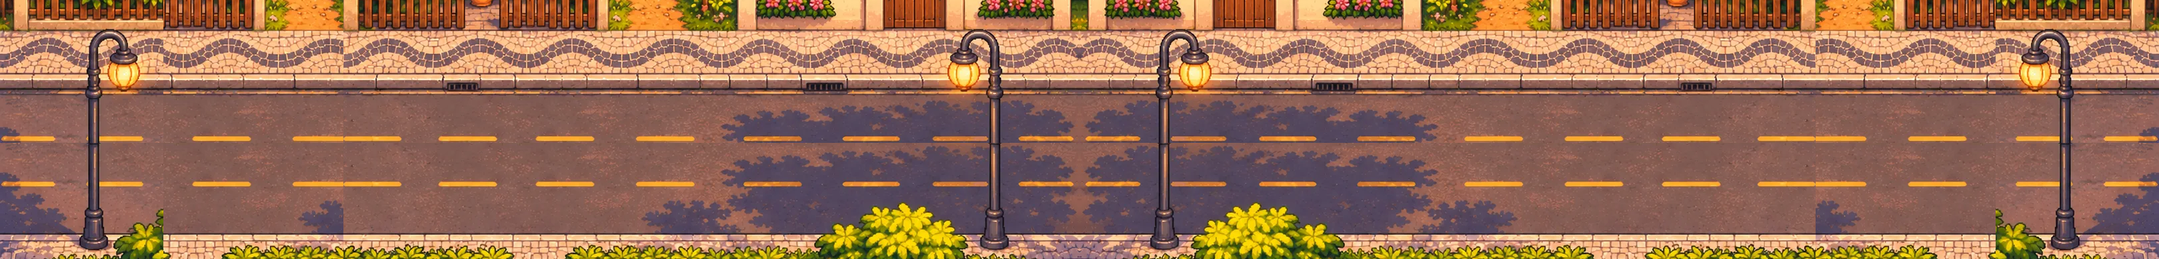
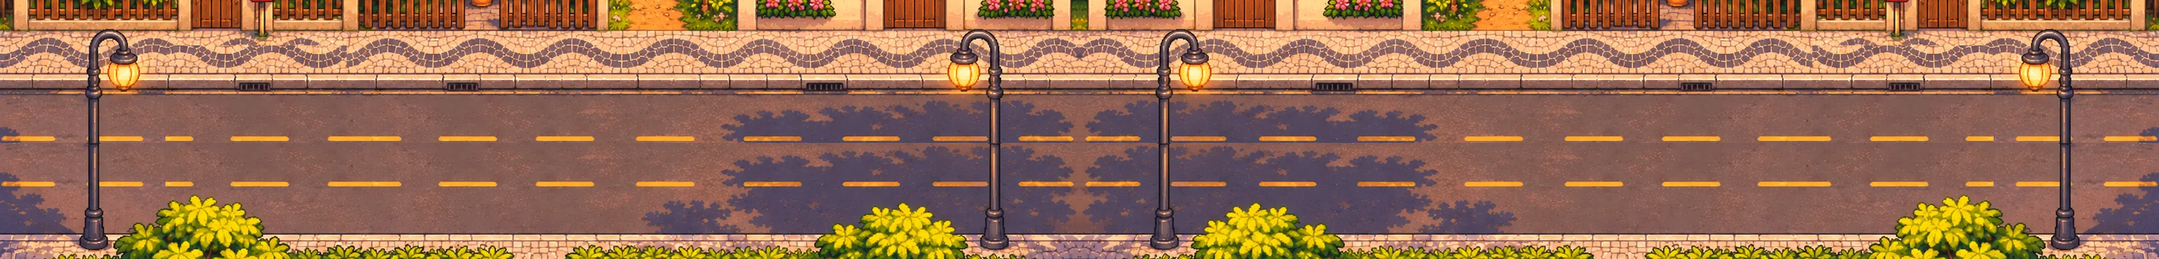
Carro vermelho da rua recortado no formato exato (sprite com profundidade pela base), pista do Uber emendada sem degrau na calçada, trânsito vindo de frente
Claude-Session: https://claude.ai/code/session_01PDyLU6Huw5amytFREh1vA2

diff --git a/src/config/assetManifest.ts b/src/config/assetManifest.ts
@@ -110,6 +110,7 @@ export const ASSETS: AssetEntry[] = [
   ...['colar', 'oculos', 'celular', 'guardanapo', 'flor'].map(
     (n, i): AssetEntry => ({ id: `ICO-${String(10 + i).padStart(3, '0')}`, key: `icon-${n}`, file: `assets/ui/icon-${n}.png`, kind: 'image' }),
   ),
+  { id: 'OBJ-040', key: 'rua-carro-vermelho', file: 'assets/objects/rua-carro-vermelho.png', kind: 'image' },
   { id: 'OBJ-030', key: 'prop-umbrella-stand', file: 'assets/objects/umbrella-stand.png', kind: 'image' },
   { id: 'OBJ-031', key: 'prop-umbrella-stand-empty', file: 'assets/objects/umbrella-stand-empty.png', kind: 'image' },
   { id: 'ICO-001', key: 'icon-rosa', file: 'assets/ui/icon-rosa.png', kind: 'image' },

diff --git a/src/regions/piabeta/rua.map.ts b/src/regions/piabeta/rua.map.ts
@@ -324,8 +324,11 @@ export const ruaMap: MapDef = {
   ],
 
   // Profundidade (o que passa NA FRENTE de quem está atrás)
+  props: [
+    { key: 'rua-carro-vermelho', tx: 250 / 48, ty: 536 / 48 - 1, scale: 0.5, block: false },
+  ],
+
   overlays: [
-    { x0: 255, y0: 405, x1: 505, y1: 540, base: 533, cut: 'furniture' }, // carro
     { x0: 128, y0: 372, x1: 212, y1: 468, base: 470, cut: 'lamp' }, // poste esquerdo (luminária)
     { x0: 122, y0: 468, x1: 162, y1: 640, base: 638, cut: 'lamp' }, // poste esquerdo (haste)
     { x0: 1418, y0: 372, x1: 1502, y1: 468, base: 470, cut: 'lamp' }, // poste direito (luminária)
